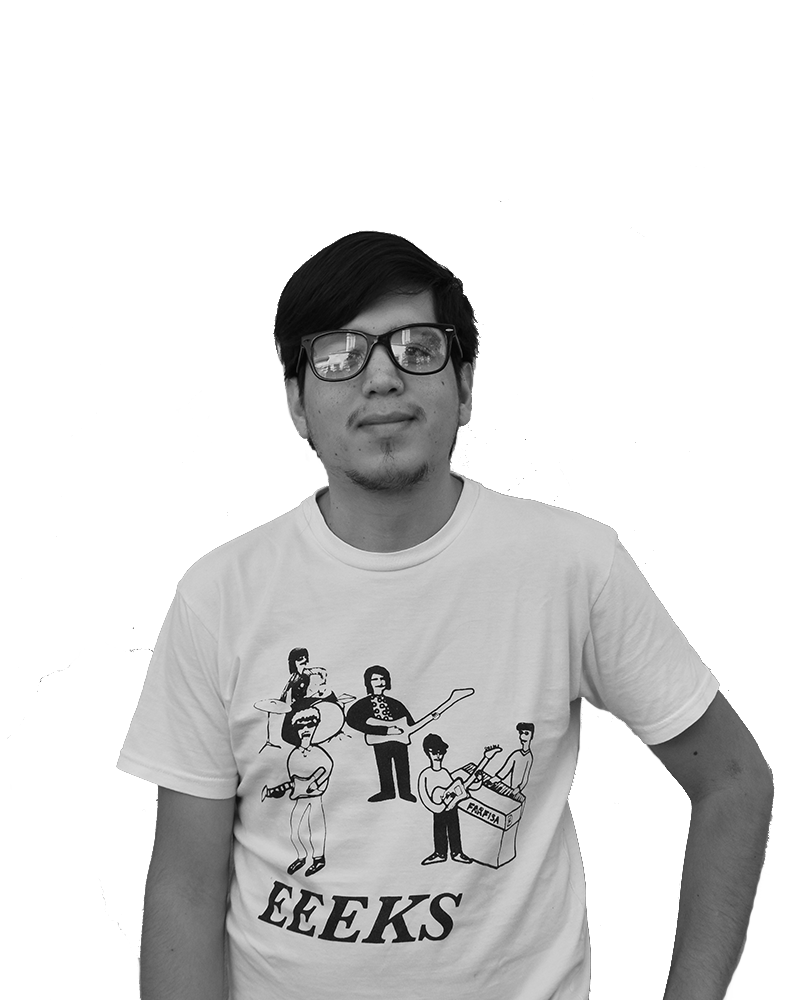
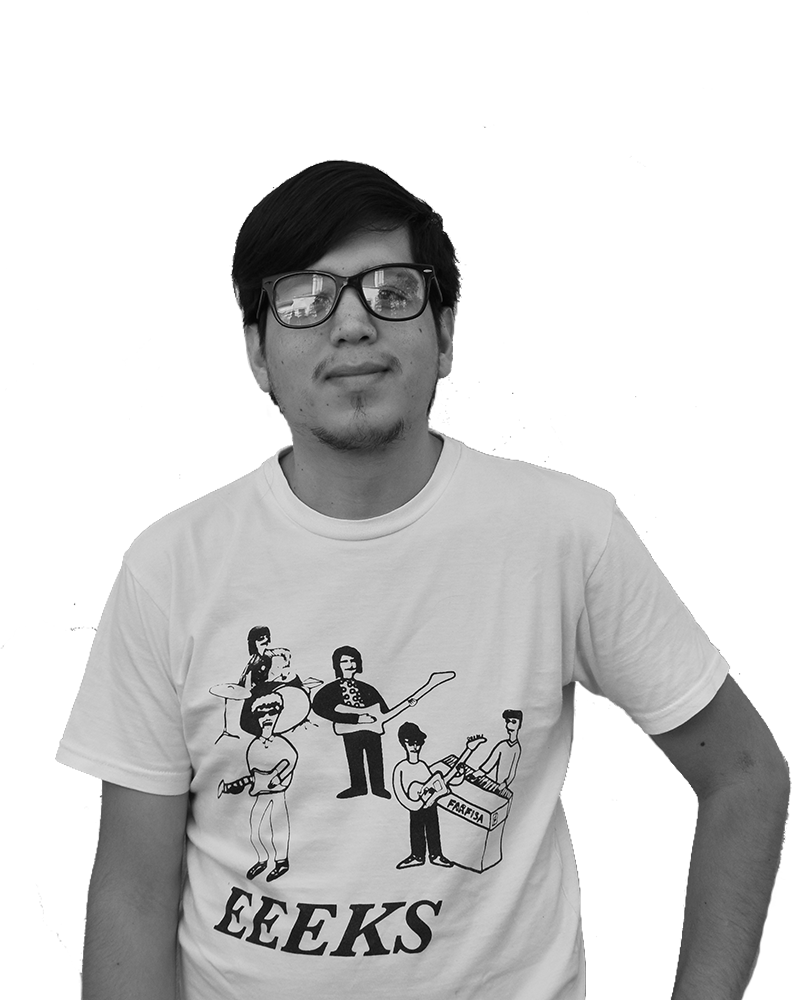
team members update

Changed region(s): [[0.0625, 0.155, 1.0, 1.0], [0.8125, 0.775, 0.875, 1.0], [0.6875, 0.837, 0.75, 1.0]]

diff --git a/index.html b/index.html
@@ -515,7 +515,7 @@
                 <!-- end team member -->
                 <!-- team member -->
                 <div class="col-md-3 col-sm-6 text-center team-member position-relative agency-team no-padding wow fadeIn">
-                      <img src="images/javier-bw.png" alt=""/>
+                      <img src="images/xavi-bw.png" alt=""/>
                       <div class="team-details">
                               <h5 class="team-headline white-text text-uppercase font-weight-600">Pendientes? Qué es eso?</h5>
                               <p class="width-60 center-col light-gray-text margin-five"></p>
